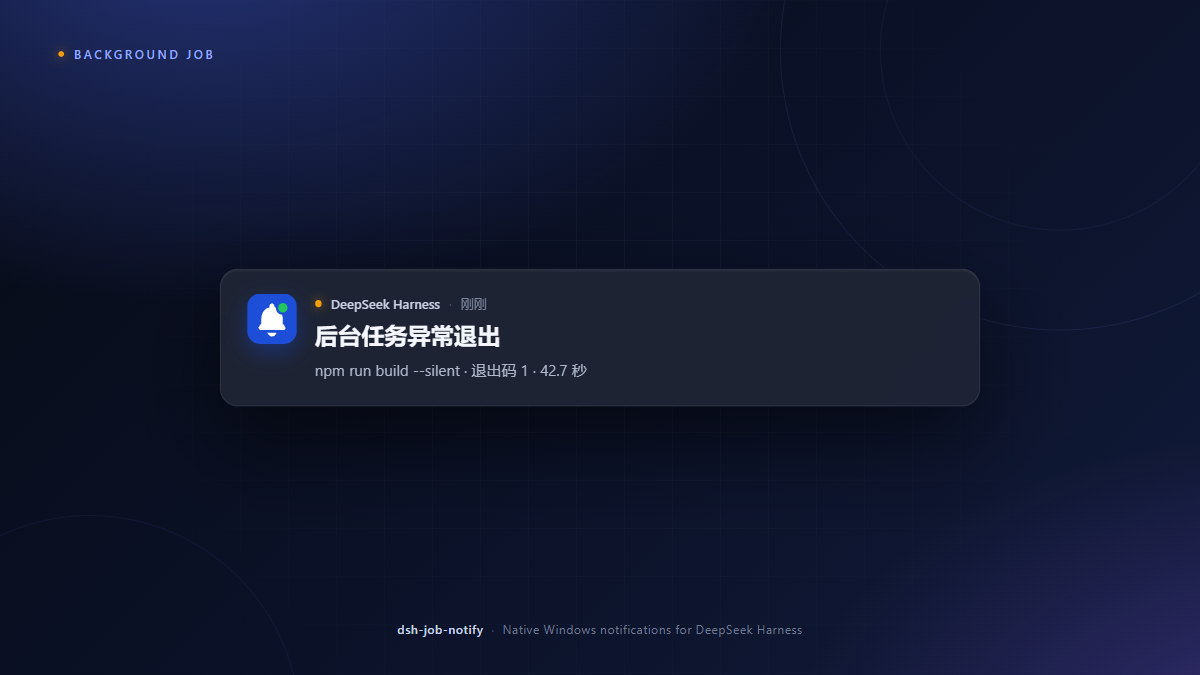
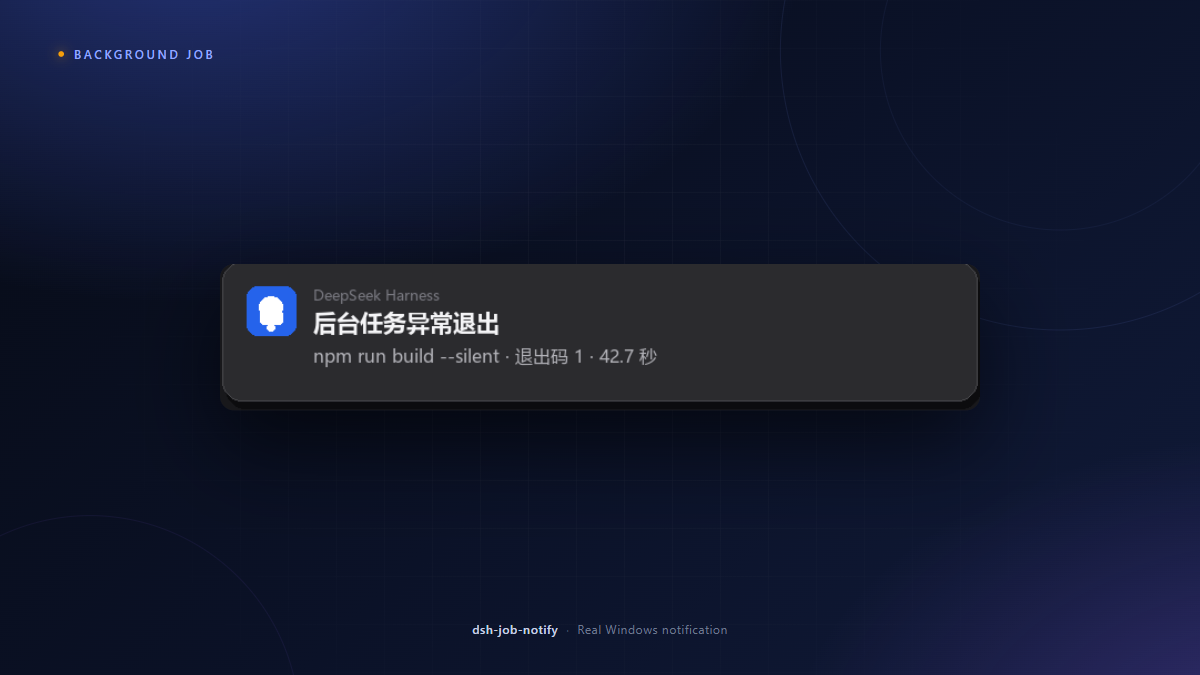
docs: use real Windows notification screenshots

diff --git a/README.md b/README.md
@@ -53,7 +53,7 @@ DSH 把 shell 命令、子代理、workflow 都建模成后台任务，但不会
 
 ![对话结束通知](docs/toast-turn.png)
 
-<sub>示意图：标题是会话名，正文是本轮最后一条回答的纯文本节选（约 200 字），Markdown 语法会被剥掉。</sub>
+<sub>真实 Windows 通知截图（示例会话）：标题是会话名，正文是本轮最后一条回答的纯文本节选（约 200 字），Markdown 语法会被剥掉。</sub>
 
 - **标题**：会话标题，取自 Host 的 `sessionTitle` 服务；新会话还没生成标题时退回工作区目录名
 - **正文**：本轮最后一条 assistant 回答的节选；如果这一轮只调用了工具、没有文本回答，回退为「本轮已完成」
@@ -64,7 +64,7 @@ DSH 把 shell 命令、子代理、workflow 都建模成后台任务，但不会
 
 ![后台任务通知](docs/toast-job.png)
 
-<sub>示意图：标题按结果区分，正文是任务标签、退出码和耗时。</sub>
+<sub>真实 Windows 通知截图：标题按结果区分，正文是任务标签、退出码和耗时。</sub>
 
 标题有四种：
 

diff --git a/README.en.md b/README.en.md
@@ -28,7 +28,7 @@ Both can be switched off independently. Foreground commands, jobs an agent is st
 
 ![Turn notification](docs/toast-turn.png)
 
-<sub>Illustration: the title is the Session name; the body is an excerpt of the last answer.</sub>
+<sub>Real Windows notification screenshot from the demo session: the title is the Session name; the body is an excerpt of the last answer.</sub>
 
 - **Title**: the Session title from the Host's `sessionTitle` service, falling back to the workspace folder name
 - **Body**: an excerpt (about 200 characters) of the last assistant answer, with Markdown syntax stripped
@@ -39,7 +39,7 @@ Both can be switched off independently. Foreground commands, jobs an agent is st
 
 ![Job notification](docs/toast-job.png)
 
-<sub>Illustration: the title reflects the outcome; the body carries the label, exit code, and elapsed time.</sub>
+<sub>Real Windows notification screenshot: the title reflects the outcome; the body carries the label, exit code, and elapsed time.</sub>
 
 | Title | Meaning |
 |---|---|
